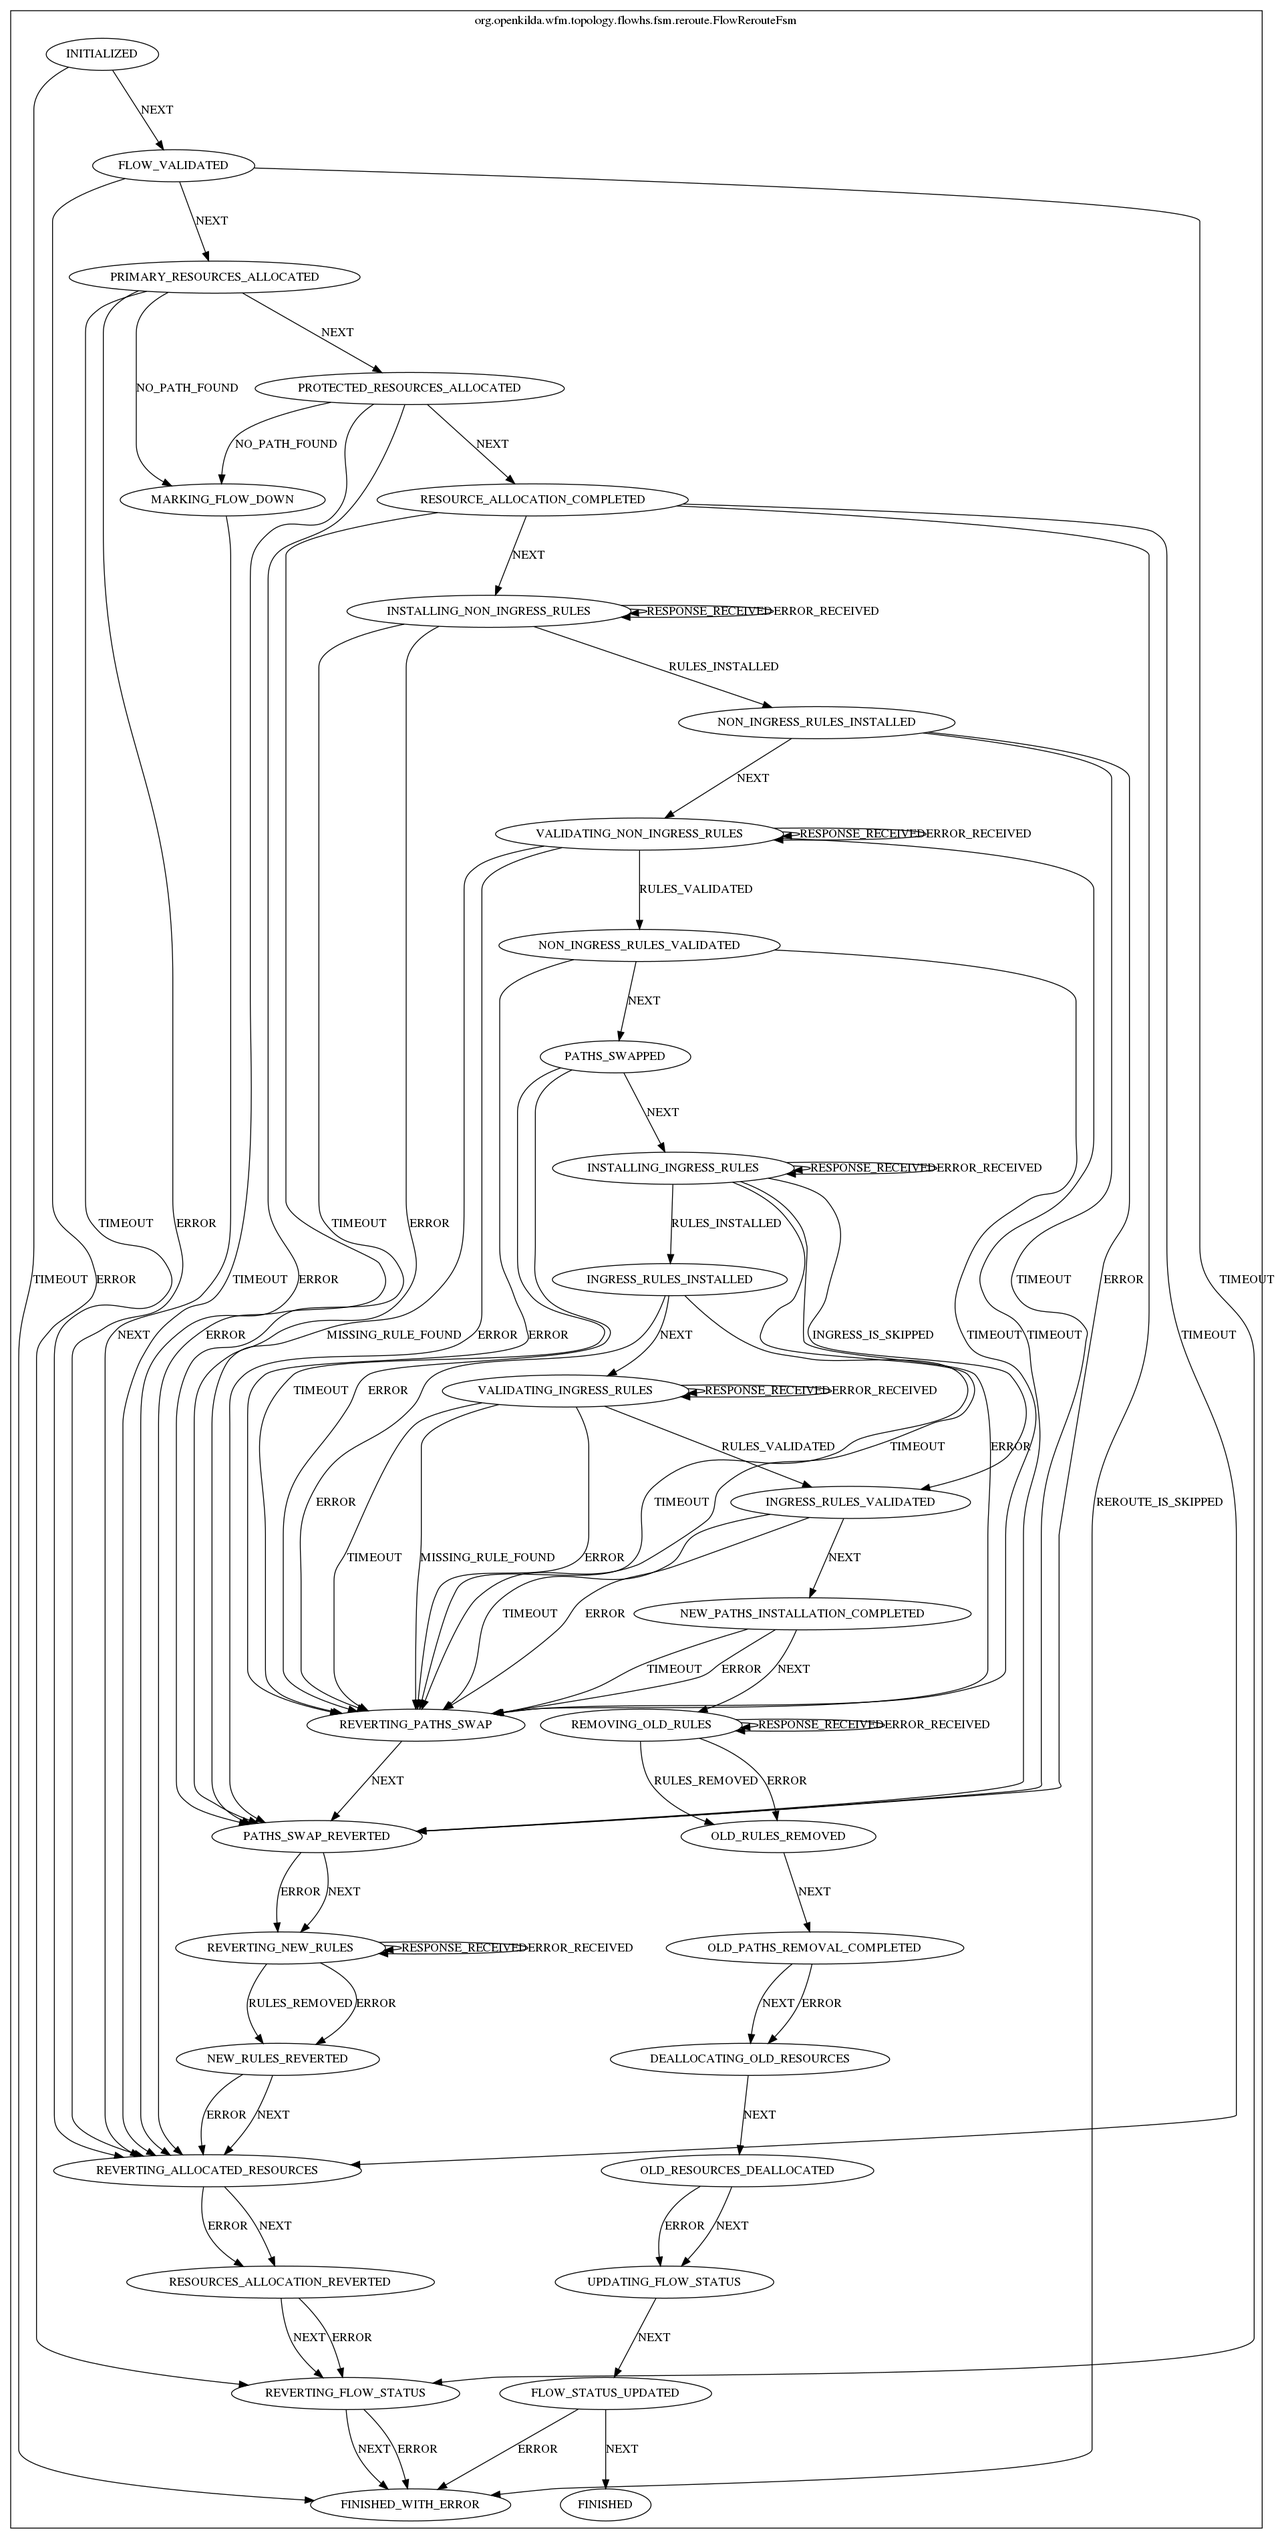
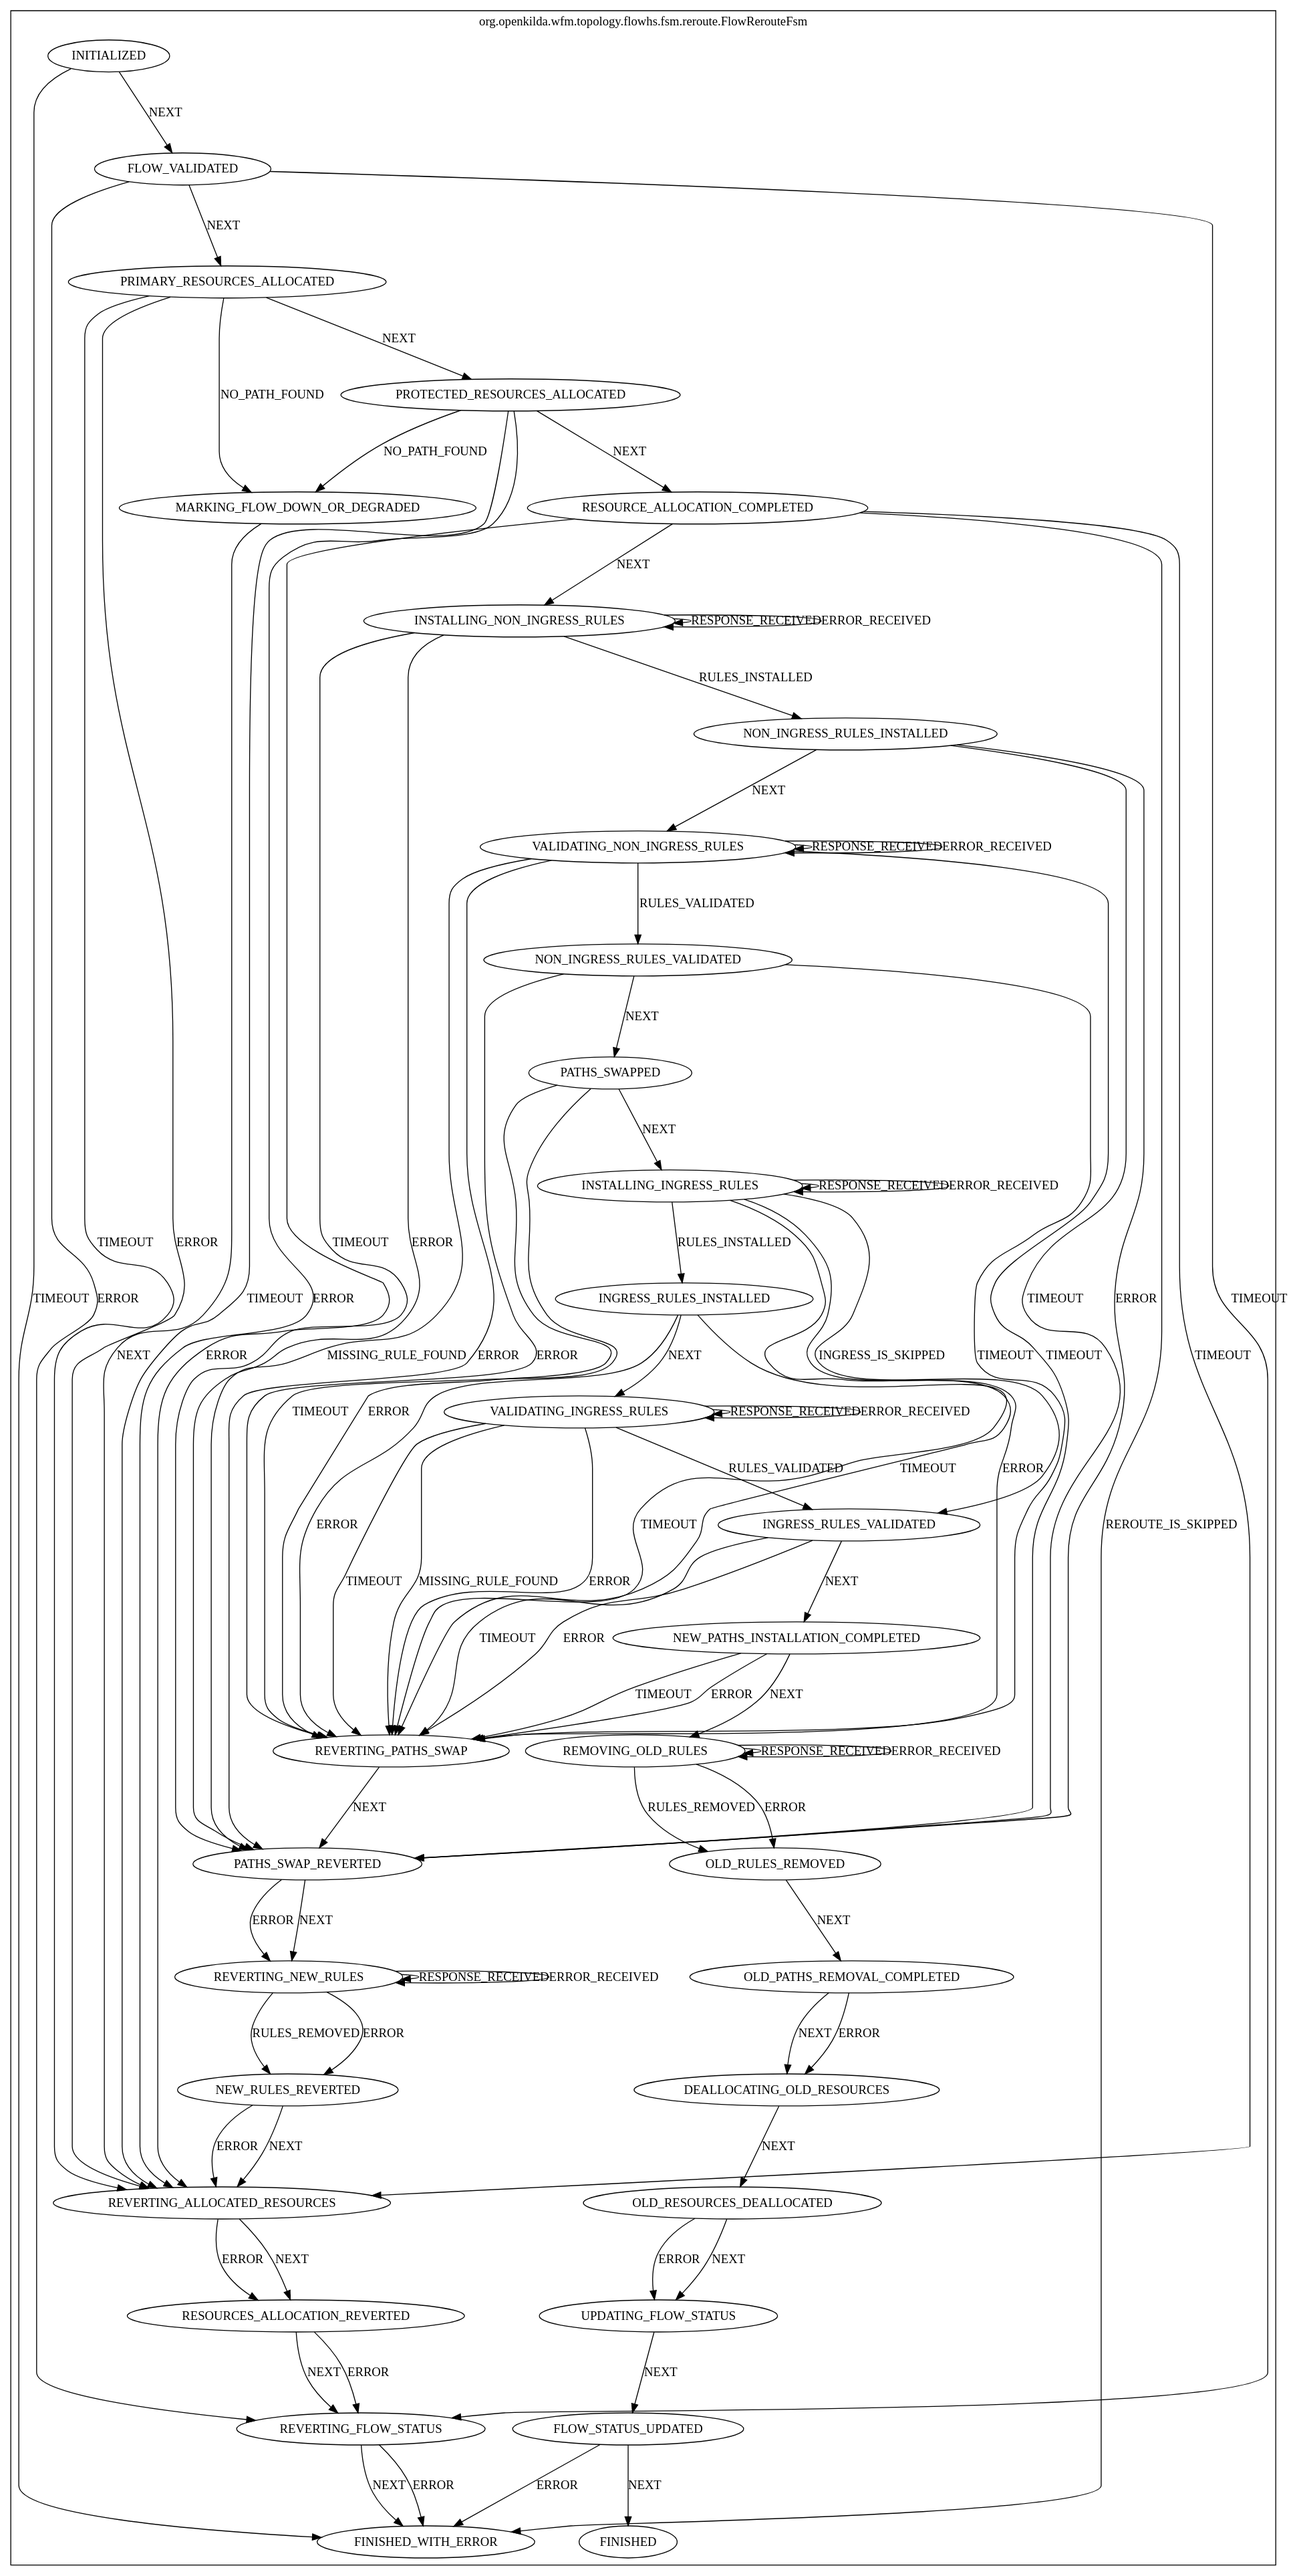
Make flow Degraded after reroute if protected flow is Down
Closes #3648

diff --git a/src-java/flowhs-topology/flowhs-storm-topology/src/main/java/org/openkilda/wfm/topology/flowhs/fsm/reroute/actions/OnNoPathFoundAction.java b/src-java/flowhs-topology/flowhs-storm-topology/src/main/java/org/openkilda/wfm/topology/flowhs/fsm/reroute/actions/OnNoPathFoundAction.java
@@ -41,15 +41,12 @@ public class OnNoPathFoundAction extends FlowProcessingAction<FlowRerouteFsm, St
     @Override
     protected void perform(State from, State to, Event event, FlowRerouteContext context, FlowRerouteFsm stateMachine) {
         String flowId = stateMachine.getFlowId();
-        log.debug("Setting the flow status of {} to down", flowId);
+        log.debug("Updating the flow status of {} after 'no path found' event", flowId);
 
-        persistenceManager.getTransactionManager().doInTransaction(() -> {
-            dashboardLogger.onFlowStatusUpdate(flowId, FlowStatus.DOWN);
-            flowRepository.updateStatus(flowId, FlowStatus.DOWN);
+        FlowStatus flowStatus = persistenceManager.getTransactionManager().doInTransaction(() -> {
             stateMachine.setOriginalFlowStatus(null);
-            stateMachine.setNewFlowStatus(FlowStatus.DOWN);
 
-            Flow flow = getFlow(flowId, FetchStrategy.NO_RELATIONS);
+            Flow flow = getFlow(flowId, FetchStrategy.DIRECT_RELATIONS);
             if (stateMachine.isReroutePrimary() && stateMachine.getNewPrimaryForwardPath() == null
                     && stateMachine.getNewPrimaryReversePath() == null) {
                 if (flow.getForwardPathId() == null && flow.getReversePathId() == null) {
@@ -59,9 +56,15 @@ public class OnNoPathFoundAction extends FlowProcessingAction<FlowRerouteFsm, St
                             flow.getForwardPathId(), flow.getReversePathId());
                     if (flow.getForwardPathId() != null) {
                         flowPathRepository.updateStatus(flow.getForwardPathId(), FlowPathStatus.INACTIVE);
+                        if (flow.getForwardPath() != null) {
+                            flow.getForwardPath().setStatus(FlowPathStatus.INACTIVE);
+                        }
                     }
                     if (flow.getReversePathId() != null) {
                         flowPathRepository.updateStatus(flow.getReversePathId(), FlowPathStatus.INACTIVE);
+                        if (flow.getReversePath() != null) {
+                            flow.getReversePath().setStatus(FlowPathStatus.INACTIVE);
+                        }
                     }
                 }
             }
@@ -76,14 +79,33 @@ public class OnNoPathFoundAction extends FlowProcessingAction<FlowRerouteFsm, St
                             flow.getProtectedForwardPathId(), flow.getProtectedReversePathId());
                     if (flow.getProtectedForwardPathId() != null) {
                         flowPathRepository.updateStatus(flow.getProtectedForwardPathId(), FlowPathStatus.INACTIVE);
+                        if (flow.getProtectedForwardPath() != null) {
+                            flow.getProtectedForwardPath().setStatus(FlowPathStatus.INACTIVE);
+                        }
                     }
                     if (flow.getProtectedReversePathId() != null) {
                         flowPathRepository.updateStatus(flow.getProtectedReversePathId(), FlowPathStatus.INACTIVE);
+                        if (flow.getProtectedReversePath() != null) {
+                            flow.getProtectedReversePath().setStatus(FlowPathStatus.INACTIVE);
+                        }
                     }
                 }
             }
+
+            FlowStatus newFlowStatus = flow.computeFlowStatus();
+
+            if (newFlowStatus != FlowStatus.DOWN && newFlowStatus != FlowStatus.DEGRADED) {
+                log.error("Computed unexpected status {} of flow {} after 'no path found' event", newFlowStatus, flow);
+                newFlowStatus = FlowStatus.DOWN;
+            }
+
+            log.debug("Setting the flow status of {} to {}", flowId, newFlowStatus);
+            dashboardLogger.onFlowStatusUpdate(flowId, newFlowStatus);
+            flowRepository.updateStatus(flowId, newFlowStatus);
+            stateMachine.setNewFlowStatus(newFlowStatus);
+            return newFlowStatus;
         });
 
-        stateMachine.saveActionToHistory("The flow status was set to down");
+        stateMachine.saveActionToHistory(String.format("The flow status was set to %s", flowStatus));
     }
 }

diff --git a/src-java/flowhs-topology/flowhs-storm-topology/src/main/java/org/openkilda/wfm/topology/flowhs/fsm/reroute/FlowRerouteFsm.java b/src-java/flowhs-topology/flowhs-storm-topology/src/main/java/org/openkilda/wfm/topology/flowhs/fsm/reroute/FlowRerouteFsm.java
@@ -211,7 +211,7 @@ public final class FlowRerouteFsm extends FlowPathSwappingFsm<FlowRerouteFsm, St
                     .perform(new AllocateProtectedResourcesAction(persistenceManager, transactionRetriesLimit,
                             pathAllocationRetriesLimit, pathAllocationRetryDelay,
                             pathComputer, resourcesManager, dashboardLogger));
-            builder.transition().from(State.PRIMARY_RESOURCES_ALLOCATED).to(State.MARKING_FLOW_DOWN)
+            builder.transition().from(State.PRIMARY_RESOURCES_ALLOCATED).to(State.MARKING_FLOW_DOWN_OR_DEGRADED)
                     .on(Event.NO_PATH_FOUND);
             builder.transitions().from(State.PRIMARY_RESOURCES_ALLOCATED)
                     .toAmong(State.REVERTING_ALLOCATED_RESOURCES, State.REVERTING_ALLOCATED_RESOURCES)
@@ -220,7 +220,7 @@ public final class FlowRerouteFsm extends FlowPathSwappingFsm<FlowRerouteFsm, St
             builder.transition().from(State.PROTECTED_RESOURCES_ALLOCATED).to(State.RESOURCE_ALLOCATION_COMPLETED)
                     .on(Event.NEXT)
                     .perform(new PostResourceAllocationAction(persistenceManager, dashboardLogger));
-            builder.transition().from(State.PROTECTED_RESOURCES_ALLOCATED).to(State.MARKING_FLOW_DOWN)
+            builder.transition().from(State.PROTECTED_RESOURCES_ALLOCATED).to(State.MARKING_FLOW_DOWN_OR_DEGRADED)
                     .on(Event.NO_PATH_FOUND);
             builder.transitions().from(State.PROTECTED_RESOURCES_ALLOCATED)
                     .toAmong(State.REVERTING_ALLOCATED_RESOURCES, State.REVERTING_ALLOCATED_RESOURCES)
@@ -355,7 +355,7 @@ public final class FlowRerouteFsm extends FlowPathSwappingFsm<FlowRerouteFsm, St
             builder.transition().from(State.FLOW_STATUS_UPDATED).to(State.FINISHED).on(Event.NEXT);
             builder.transition().from(State.FLOW_STATUS_UPDATED).to(State.FINISHED_WITH_ERROR).on(Event.ERROR);
 
-            builder.transition().from(State.MARKING_FLOW_DOWN).to(State.REVERTING_ALLOCATED_RESOURCES)
+            builder.transition().from(State.MARKING_FLOW_DOWN_OR_DEGRADED).to(State.REVERTING_ALLOCATED_RESOURCES)
                     .on(Event.NEXT)
                     .perform(new OnNoPathFoundAction(persistenceManager, dashboardLogger));
 
@@ -455,7 +455,7 @@ public final class FlowRerouteFsm extends FlowPathSwappingFsm<FlowRerouteFsm, St
         REVERTING_NEW_RULES,
         NEW_RULES_REVERTED,
 
-        MARKING_FLOW_DOWN,
+        MARKING_FLOW_DOWN_OR_DEGRADED,
         REVERTING_ALLOCATED_RESOURCES,
         RESOURCES_ALLOCATION_REVERTED,
         REVERTING_FLOW_STATUS,
